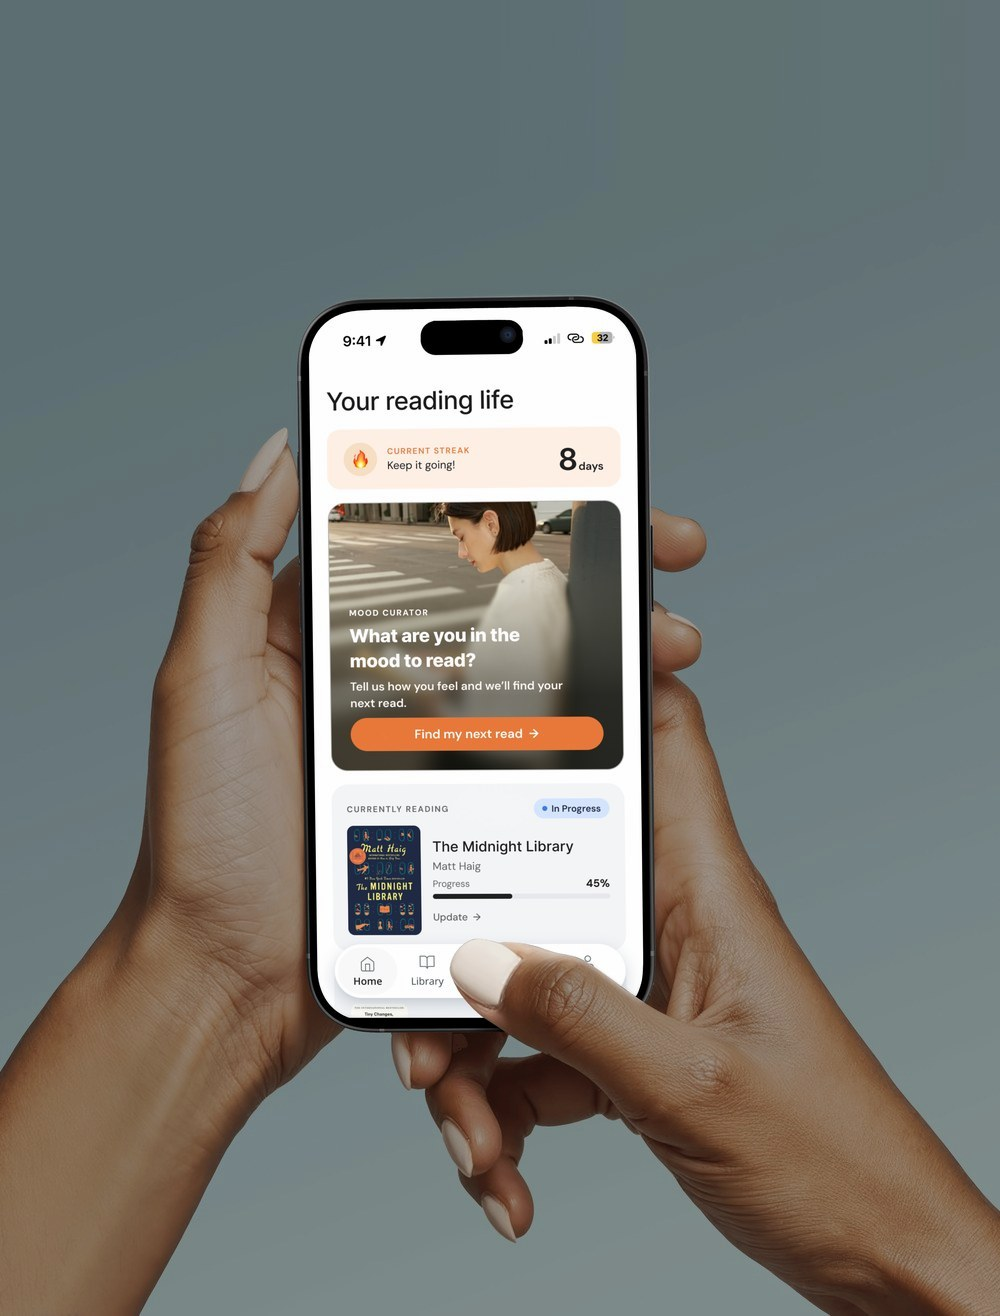
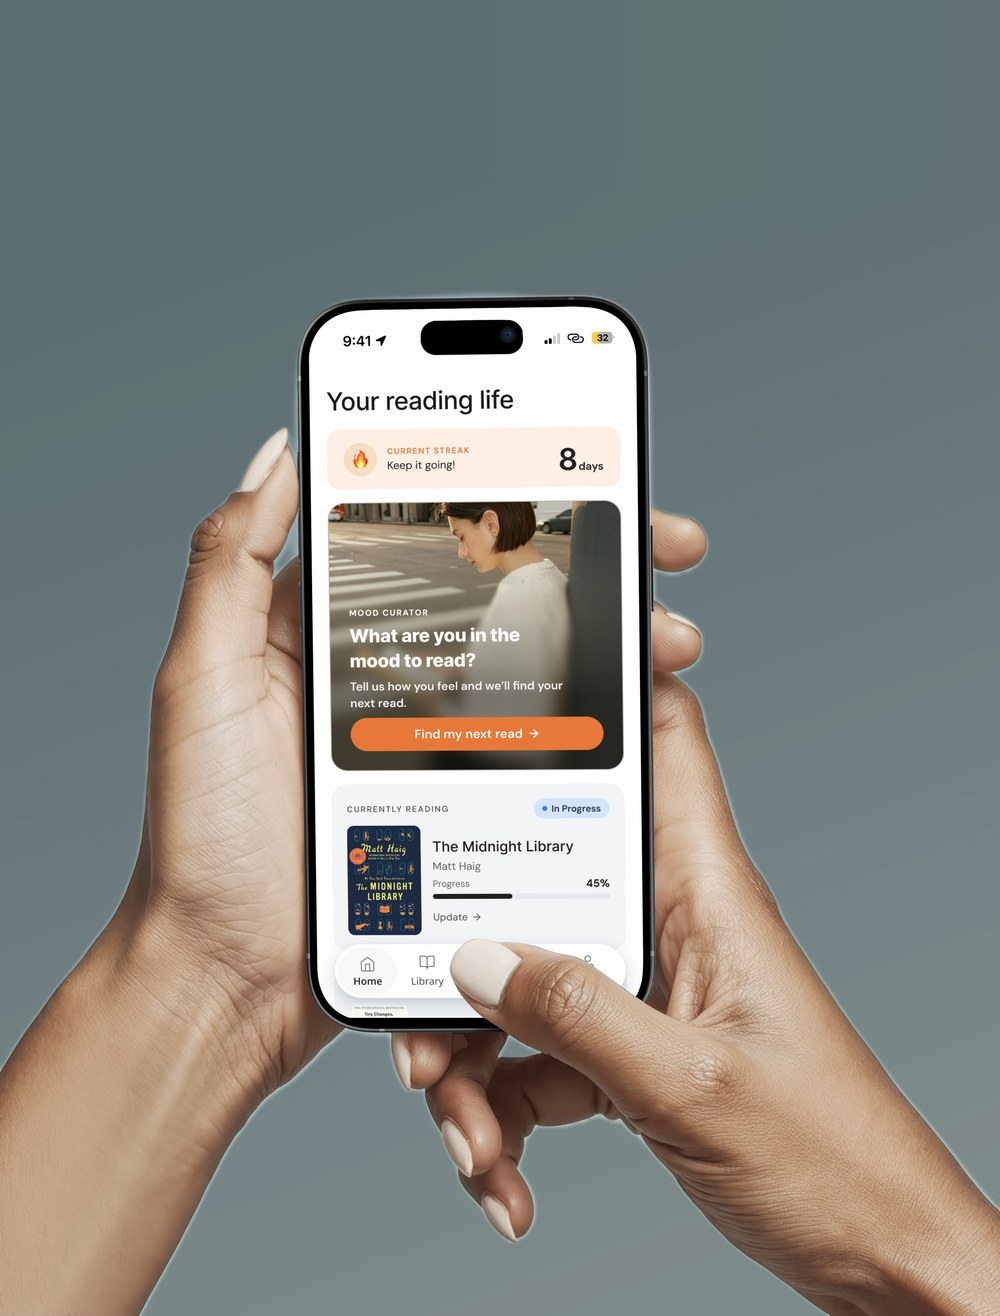
Cards: Wrylo hands restored, new Sunday visual, no Paid chip
- Wrylo: only the backdrop is deepened, hands keep their original tone
- Sunday: white ground with soft greys, one revenue card with a line
  chart and a 'Table 12 paid' chip on its corner
- Pricing: Paid chip removed

Claude-Session: https://claude.ai/code/session_01KXnjDh72uQzYPN4BMXmEj2

Changed region(s): [[0.0, 0.2804, 1.0, 1.0], [0.62, 0.3116, 0.651, 0.3427]]

diff --git a/index.html b/index.html
@@ -2676,6 +2676,26 @@ body .track .card.sxc[data-href="sunday.html"] .su3-orb--bars i:nth-child(6) { b
 body .track .card.sxc[data-href="sunday.html"] .su3-orb--ring { background: radial-gradient(circle, #FFFFFF 56%, transparent 57%), conic-gradient(#3E3E42 0 72%, #D8D8DB 0); }
 body .track .card.sxc[data-href="sunday.html"] .su3-orb--ring b { color: #2A2A2D; }
 body .track .card.sxc[data-href="sunday.html"] .su3-orb--qr { background: radial-gradient(circle at 40% 35%, #4A4A4F, #2A2A2E); }
+
+/* Sunday: white ground, one revenue card and a payment chip */
+body .track .card.sxc[data-href="sunday.html"] { background:
+  radial-gradient(50% 38% at 92% 30%, rgba(214, 215, 218, 0.7), rgba(214, 215, 218, 0) 72%),
+  radial-gradient(55% 40% at 6% 92%, rgba(220, 221, 224, 0.8), rgba(220, 221, 224, 0) 72%),
+  #FFFFFF !important; }
+.sx--su4 { justify-content: center; align-items: center; padding: 0; }
+.su4-card { position: relative; width: 74%; box-sizing: border-box; padding: 1.2em 1.2em 1em; border-radius: 1.4em; background: rgba(255, 255, 255, 0.72); -webkit-backdrop-filter: blur(18px); backdrop-filter: blur(18px); box-shadow: inset 0 0 0 1px rgba(255, 255, 255, 0.9), 0 0 0 1px rgba(30, 31, 33, 0.05), 0 1.8em 3em -1.8em rgba(30, 31, 33, 0.35); color: #1E1F21; margin-top: 4%; }
+.su4-k { margin: 0; display: flex; justify-content: space-between; font-family: "Space Mono", ui-monospace, monospace; font-size: 0.48em; letter-spacing: 0.14em; text-transform: uppercase; color: rgba(30, 31, 33, 0.55); }
+.su4-k span { color: rgba(30, 31, 33, 0.35); }
+.su4-num { display: flex; align-items: flex-start; margin: 0.35em 0 0; font-size: 2.6em; line-height: 1; letter-spacing: -0.045em; }
+.su4-num span { font-size: 0.42em; margin: 0.14em 0.08em 0 0; opacity: 0.5; }
+.su4-delta { display: inline-block; margin-top: 0.7em; padding: 0.35em 0.7em; border-radius: 99px; background: #F0F0F1; font-size: 0.52em; color: rgba(30, 31, 33, 0.7); }
+.su4-chart { display: block; width: 100%; height: 4.6em; margin-top: 0.9em; }
+.su4-dot { position: absolute; right: 1.2em; top: calc(100% - 1em - 1.2em - 4.6em + 4.6em * 0.125); width: 0.55em; height: 0.55em; margin: -0.275em -0.275em 0 0; border-radius: 50%; background: #1E1F21; box-shadow: 0 0 0 0.3em rgba(30, 31, 33, 0.1); }
+.su4-axis { display: flex; justify-content: space-between; margin-top: 0.5em; font-family: "Space Mono", ui-monospace, monospace; font-size: 0.4em; letter-spacing: 0.08em; color: rgba(30, 31, 33, 0.4); }
+.su4-chip { position: absolute; left: -1.6em; bottom: -1.3em; font-size: 0.66em; display: inline-flex; align-items: center; gap: 0.5em; padding: 0.4em 0.45em 0.4em 0.4em; border-radius: 99px; background: #1E1F21; color: #F6F6F7; font-size: 0.66em; box-shadow: 0 1em 1.6em -0.8em rgba(30, 31, 33, 0.55); white-space: nowrap; }
+.su4-chip em { display: grid; place-items: center; width: 1.5em; height: 1.5em; border-radius: 50%; background: #FFFFFF; color: #1E1F21; }
+.su4-chip em svg { width: 0.9em; height: 0.9em; }
+.su4-chip b { margin-left: 0.3em; padding: 0.3em 0.6em; border-radius: 99px; background: rgba(255, 255, 255, 0.14); font-weight: 400; }
 </style>
 <script>document.body.classList.add("home")</script>
 
@@ -2714,7 +2734,6 @@ body .track .card.sxc[data-href="sunday.html"] .su3-orb--qr { background: radial
     <p class="sp4-price"><span>€</span>159<small>/mo</small></p>
     <div class="sp4-src"><span class="sp4-stack"><i><img src="assets/img/smi-fb.png" alt="" draggable="false"></i><i><img src="assets/img/smi-ga.png" alt="" draggable="false"></i><i><img src="assets/img/smi-gads.png" alt="" draggable="false"></i><i><img src="assets/img/smi-tt.png" alt="" draggable="false"></i></span><small>6 data sources</small></div>
     <span class="sp4-btn">Package active</span>
-    <span class="sp4-paid"><em><svg viewBox="0 0 16 16" aria-hidden="true"><path d="M4.2 8.3l2.4 2.4 5.2-5.4" fill="none" stroke="currentColor" stroke-width="1.8" stroke-linecap="round" stroke-linejoin="round"/></svg></em>Paid</span>
   </div>
 </div>
         <div class="card__head"><h2 class="card__title">Supermetrics</h2><span class="card__sep" aria-hidden="true">/</span><span class="card__year">2024</span></div>
@@ -2753,10 +2772,16 @@ body .track .card.sxc[data-href="sunday.html"] .su3-orb--qr { background: radial
         <div class="card__head"><h2 class="card__title">Fupay</h2><span class="card__sep" aria-hidden="true">/</span><span class="card__year">2021</span></div>
       </article>
       <article class="card sxc" data-href="sunday.html">
-        <div class="sx sx--su3" aria-hidden="true">
-  <div class="su3-card"><div class="su3-txt"><p>Guests up 18% this week. Friday dinner was your busiest…</p><div class="su3-foot"><span class="sx-tag">Guests</span><span class="sx-tag">Revenue</span><small>This week</small></div></div><span class="su3-orb su3-orb--bars"><i style="--h:0.42"></i><i style="--h:0.55"></i><i style="--h:0.48"></i><i style="--h:0.7"></i><i style="--h:0.62"></i><i style="--h:1"></i><i style="--h:0.78"></i></span></div>
-  <div class="su3-card"><div class="su3-txt"><p>Tips reached €2,140, shared across 14 staff.</p><div class="su3-foot"><span class="sx-tag">Staff</span><span class="sx-tag">Tips</span><small>Today</small></div></div><span class="su3-orb su3-orb--ring"><b>€2.1k</b></span></div>
-  <div class="su3-card"><div class="su3-txt"><p>Pay at the table saved 38 hours of service…</p><div class="su3-foot"><span class="sx-tag">Insights</span><small>May</small></div></div><span class="su3-orb su3-orb--qr"><span><i class="on"></i><i class="on"></i><i></i><i class="on"></i><i class="on"></i><i></i><i class="on"></i><i></i><i class="on"></i><i class="on"></i><i class="on"></i><i></i><i></i><i class="on"></i><i class="on"></i><i></i><i class="on"></i><i></i><i class="on"></i><i class="on"></i><i></i><i class="on"></i><i></i><i class="on"></i><i class="on"></i></span></span></div>
+        <div class="sx sx--su4" aria-hidden="true">
+  <div class="su4-card">
+    <p class="su4-k">Revenue <span>Today</span></p>
+    <p class="su4-num"><span>€</span>12,480</p>
+    <span class="su4-delta">+18% vs last Friday</span>
+    <svg class="su4-chart" viewBox="0 0 200 80" preserveAspectRatio="none"><defs><linearGradient id="su4g" x1="0" y1="0" x2="0" y2="1"><stop offset="0" stop-color="#1E1F21" stop-opacity="0.14"/><stop offset="1" stop-color="#1E1F21" stop-opacity="0"/></linearGradient></defs><path d="M0 66 C20 64 30 58 45 60 S70 44 88 46 S118 30 134 34 S165 14 200 10 L200 80 L0 80Z" fill="url(#su4g)"/><path d="M0 66 C20 64 30 58 45 60 S70 44 88 46 S118 30 134 34 S165 14 200 10" fill="none" stroke="#1E1F21" stroke-width="1.6" vector-effect="non-scaling-stroke"/></svg>
+    <i class="su4-dot"></i>
+    <div class="su4-axis"><span>12pm</span><span>4pm</span><span>8pm</span></div>
+    <span class="su4-chip"><em><svg viewBox="0 0 16 16" aria-hidden="true"><path d="M4.2 8.3l2.4 2.4 5.2-5.4" fill="none" stroke="currentColor" stroke-width="1.8" stroke-linecap="round" stroke-linejoin="round"/></svg></em>Table 12 paid<b>€86</b></span>
+  </div>
 </div>
         <div class="card__head"><h2 class="card__title">Sunday</h2><span class="card__sep" aria-hidden="true">/</span><span class="card__year">2026</span></div>
       </article>
